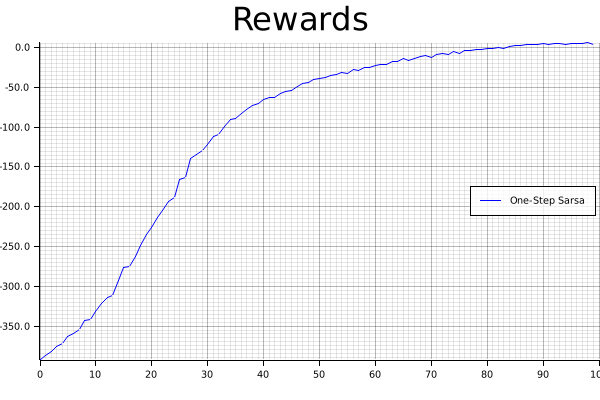
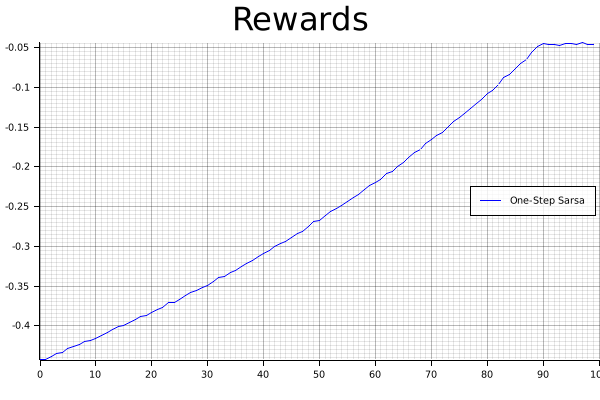
binary for blackjack example

diff --git a/src/bin/blackjack.rs b/src/bin/blackjack.rs
@@ -13,23 +13,12 @@ use structopt::StructOpt;
 
 /// Train four RL agents using some parameters and generate some graphics of their results
 #[derive(StructOpt, Debug)]
-#[structopt(name = "RLRust")]
+#[structopt(name = "RLRust - BlackJack")]
 struct Cli {
 
-    /// Name of the environment to be used: 0: blackjack, 1: frozenlake, 2: cliffwalk, 3: taxi
-    env: u8,
-
-    /// Should the env be stochastic
-    #[structopt(long = "stochastic_env")]
-    stochastic_env: bool,
-
-    /// Should the env be stochastic
+    /// Show example of episode
     #[structopt(long = "show_example")]
     show_example: bool,
-
-    /// Change the env's map, if possible
-    #[structopt(long = "map", default_value = "4x4")]
-    map: String,
 
     /// Number of episodes for the training
     #[structopt(long = "n_episodes", default_value = "100000")]
@@ -86,7 +75,6 @@ fn main() {
 
     let n_episodes: u128 = cli.n_episodes;
     let max_steps: u128 = cli.max_steps;
-    let map: String = cli.map;
 
     let learning_rate: f64 = cli.learning_rate;
     let initial_epsilon: f64 = cli.initial_epsilon;
@@ -98,31 +86,8 @@ fn main() {
     
     let moving_average_window: usize = cli.moving_average_window;
 
-    let mut blackjack = BlackJackEnv::new();
-    let mut frozen_lake;
-    if cli.env == 1 && map == "8X8" {
-        frozen_lake = FrozenLakeEnv::new(&FrozenLakeEnv::MAP_8X8, cli.stochastic_env, max_steps);
-    } else if cli.env == 1 && map == "4x4" {
-        frozen_lake = FrozenLakeEnv::new(&FrozenLakeEnv::MAP_4X4, cli.stochastic_env, max_steps);
-    } else if cli.env != 1 {
-        frozen_lake = FrozenLakeEnv::new(&FrozenLakeEnv::MAP_4X4, cli.stochastic_env, max_steps);
-    } else {
-        panic!("Map option of {:?} is not supported!", map);
-    }
-    let mut cliffwalking = CliffWalkingEnv::new(max_steps);
-    let mut taxi = TaxiEnv::new(max_steps);
-
+    let mut env = BlackJackEnv::new();
     
-    let env: &mut dyn Env<usize> = match cli.env {
-        0 =>  {println!("Selected env blackjack"); &mut blackjack},
-        1 =>  {println!("Selected env frozen_lake{}", &map); &mut frozen_lake},
-        2 =>  {println!("Selected env cliffwalking"); &mut cliffwalking},
-        3 =>  {println!("Selected env taxi"); &mut taxi},
-        _ =>  panic!("Not a valid env selected")
-    };
-    // println!("Play!");
-    // env.play();
-
     let mut rewards: Vec<Vec<f64>> = vec![];
     let mut episodes_length: Vec<Vec<f64>> = vec![];
     let mut errors : Vec<Vec<f64>> = vec![];
@@ -143,7 +108,7 @@ fn main() {
         // &YELLOW
     ].to_vec();
 
-    let mut agent: OneStepTabularEGreedySarsa<usize, 4> = OneStepTabularEGreedySarsa::new(
+    let mut agent: OneStepTabularEGreedySarsa<usize, 2> = OneStepTabularEGreedySarsa::new(
         0.0,
         learning_rate,
         discount_factor,
@@ -154,7 +119,7 @@ fn main() {
 
 
     let now: Instant = Instant::now();
-    let (reward_history, episode_length)  = train(&mut agent, env, n_episodes);
+    let (reward_history, episode_length)  = train(&mut agent, &mut env, n_episodes);
     let elapsed: std::time::Duration = now.elapsed();
     println!("{} {:.2?}", "sarsa", elapsed);
 
@@ -164,6 +129,7 @@ fn main() {
     rewards.push(ma_reward);
     let ma_episode = moving_average(n_episodes as usize / moving_average_window, &episode_length.iter().map(|x| *x as f64).collect());
     episodes_length.push(ma_episode);
+
     // if cli.show_example {
     //     agent.example(env);
     // }

diff --git a/src/agent/sarsa.rs b/src/agent/sarsa.rs
@@ -3,16 +3,16 @@ use rand::{distributions::Uniform, prelude::Distribution};
 use std::hash::Hash;
 use crate::{env::ActionSpace, utils::argmax};
 
-pub struct OneStepTabularEGreedySarsa<T: Hash+PartialEq+Eq+Clone> {
+pub struct OneStepTabularEGreedySarsa<T, const COUNT: usize> {
     // policy
-    default: Vec<f64>,
-    policy: FxHashMap<T, Vec<f64>>,
-    action_space: ActionSpace,
+    default: [f64; COUNT],
+    policy: FxHashMap<T, [f64; COUNT]>,
     // policy update
     learning_rate: f64,
     discount_factor: f64,
     // action selection
-    dist: Uniform<f64>,
+    exploration_decider: Uniform<f64>,
+    rand_action_selecter: Uniform<usize>,
     initial_epsilon: f64,
     epsilon: f64,
     epsilon_decay: f64,
@@ -20,11 +20,10 @@ pub struct OneStepTabularEGreedySarsa<T: Hash+PartialEq+Eq+Clone> {
     training_error: Vec<f64>,
 }
 
-impl<T: Hash+PartialEq+Eq+Clone> OneStepTabularEGreedySarsa<T> {
+impl<T: Hash+PartialEq+Eq+Clone, const COUNT: usize> OneStepTabularEGreedySarsa<T, COUNT> {
     pub fn new(
         // policy
         default_value: f64,
-        action_space: ActionSpace,
         // policy update
         learning_rate: f64,
         discount_factor: f64,
@@ -34,12 +33,12 @@ impl<T: Hash+PartialEq+Eq+Clone> OneStepTabularEGreedySarsa<T> {
         final_epsilon: f64,
     ) -> Self {
         return Self {
-            default: vec![default_value; action_space.size],
+            default: [default_value; COUNT],
             policy: FxHashMap::default(),
-            action_space,
             learning_rate,
             discount_factor,
-            dist: Uniform::from(0.0..1.0),
+            exploration_decider: Uniform::from(0.0..1.0),
+            rand_action_selecter: Uniform::from(0..COUNT),
             initial_epsilon,
             epsilon: initial_epsilon,
             epsilon_decay,
@@ -54,16 +53,21 @@ impl<T: Hash+PartialEq+Eq+Clone> OneStepTabularEGreedySarsa<T> {
     }
 
     fn should_explore(&self) -> bool {
-        return self.dist.sample(&mut rand::thread_rng()) < self.epsilon;
+        return self.exploration_decider.sample(&mut rand::thread_rng()) < self.epsilon;
+    }
+
+    pub fn reset(&mut self) {
+        self.epsilon = self.initial_epsilon;
+        self.policy = FxHashMap::default();
     }
 
     pub fn get_action(&self, obs: &T) -> usize {
         if self.should_explore() {
-            return self.action_space.sample();
+            return self.rand_action_selecter.sample(&mut rand::thread_rng());
         } else {
             match self.policy.get(obs) {
                 Some(value) => argmax(value),
-                None => self.action_space.sample(),
+                None => self.rand_action_selecter.sample(&mut rand::thread_rng()),
             }
         }
     }

diff --git a/src/agent.rs b/src/agent.rs
@@ -8,7 +8,7 @@ pub use sarsa::OneStepTabularEGreedySarsa;
 use crate::env::Env;
 
 
-pub fn train<T: Hash+PartialEq+Eq+Clone+Debug>(agent: &mut OneStepTabularEGreedySarsa<T>, env: &mut dyn Env<T>, n_episodes: u128) -> (Vec<f64>, Vec<u128>) {
+pub fn train<T: Hash+PartialEq+Eq+Clone+Debug, const COUNT: usize>(agent: &mut OneStepTabularEGreedySarsa<T, COUNT>, env: &mut dyn Env<T>, n_episodes: u128) -> (Vec<f64>, Vec<u128>) {
     let mut reward_history: Vec<f64> = vec![];
     let mut episode_length: Vec<u128> = vec![];
     for _episode in 0..n_episodes {

diff --git a/src/env.rs b/src/env.rs
@@ -1,4 +1,5 @@
 use std::fmt::Debug;
+use std::io;
 
 mod action_space;
 mod blackjack;
@@ -20,7 +21,6 @@ pub trait Env<T: Debug> {
     fn step(&mut self, action: usize) -> Result<(T, f64, bool), EnvNotReady>;
     fn action_space(&self) -> ActionSpace;
     fn play(&mut self) {
-        use std::io;
         let mut curr_obs: T = self.reset();
         let mut final_reward: f64 = 0.0;
         loop {

diff --git a/src/utils.rs b/src/utils.rs
@@ -1,6 +1,6 @@
 use std::cmp::{max, min};
 
-pub fn argmax<T: PartialOrd>(vec: &Vec<T>) -> usize {
+pub fn argmax<T: PartialOrd>(vec: &[T]) -> usize {
     let mut max: &T = &vec[0];
     let mut result: usize = 0;
     let mut i: usize = 0;
